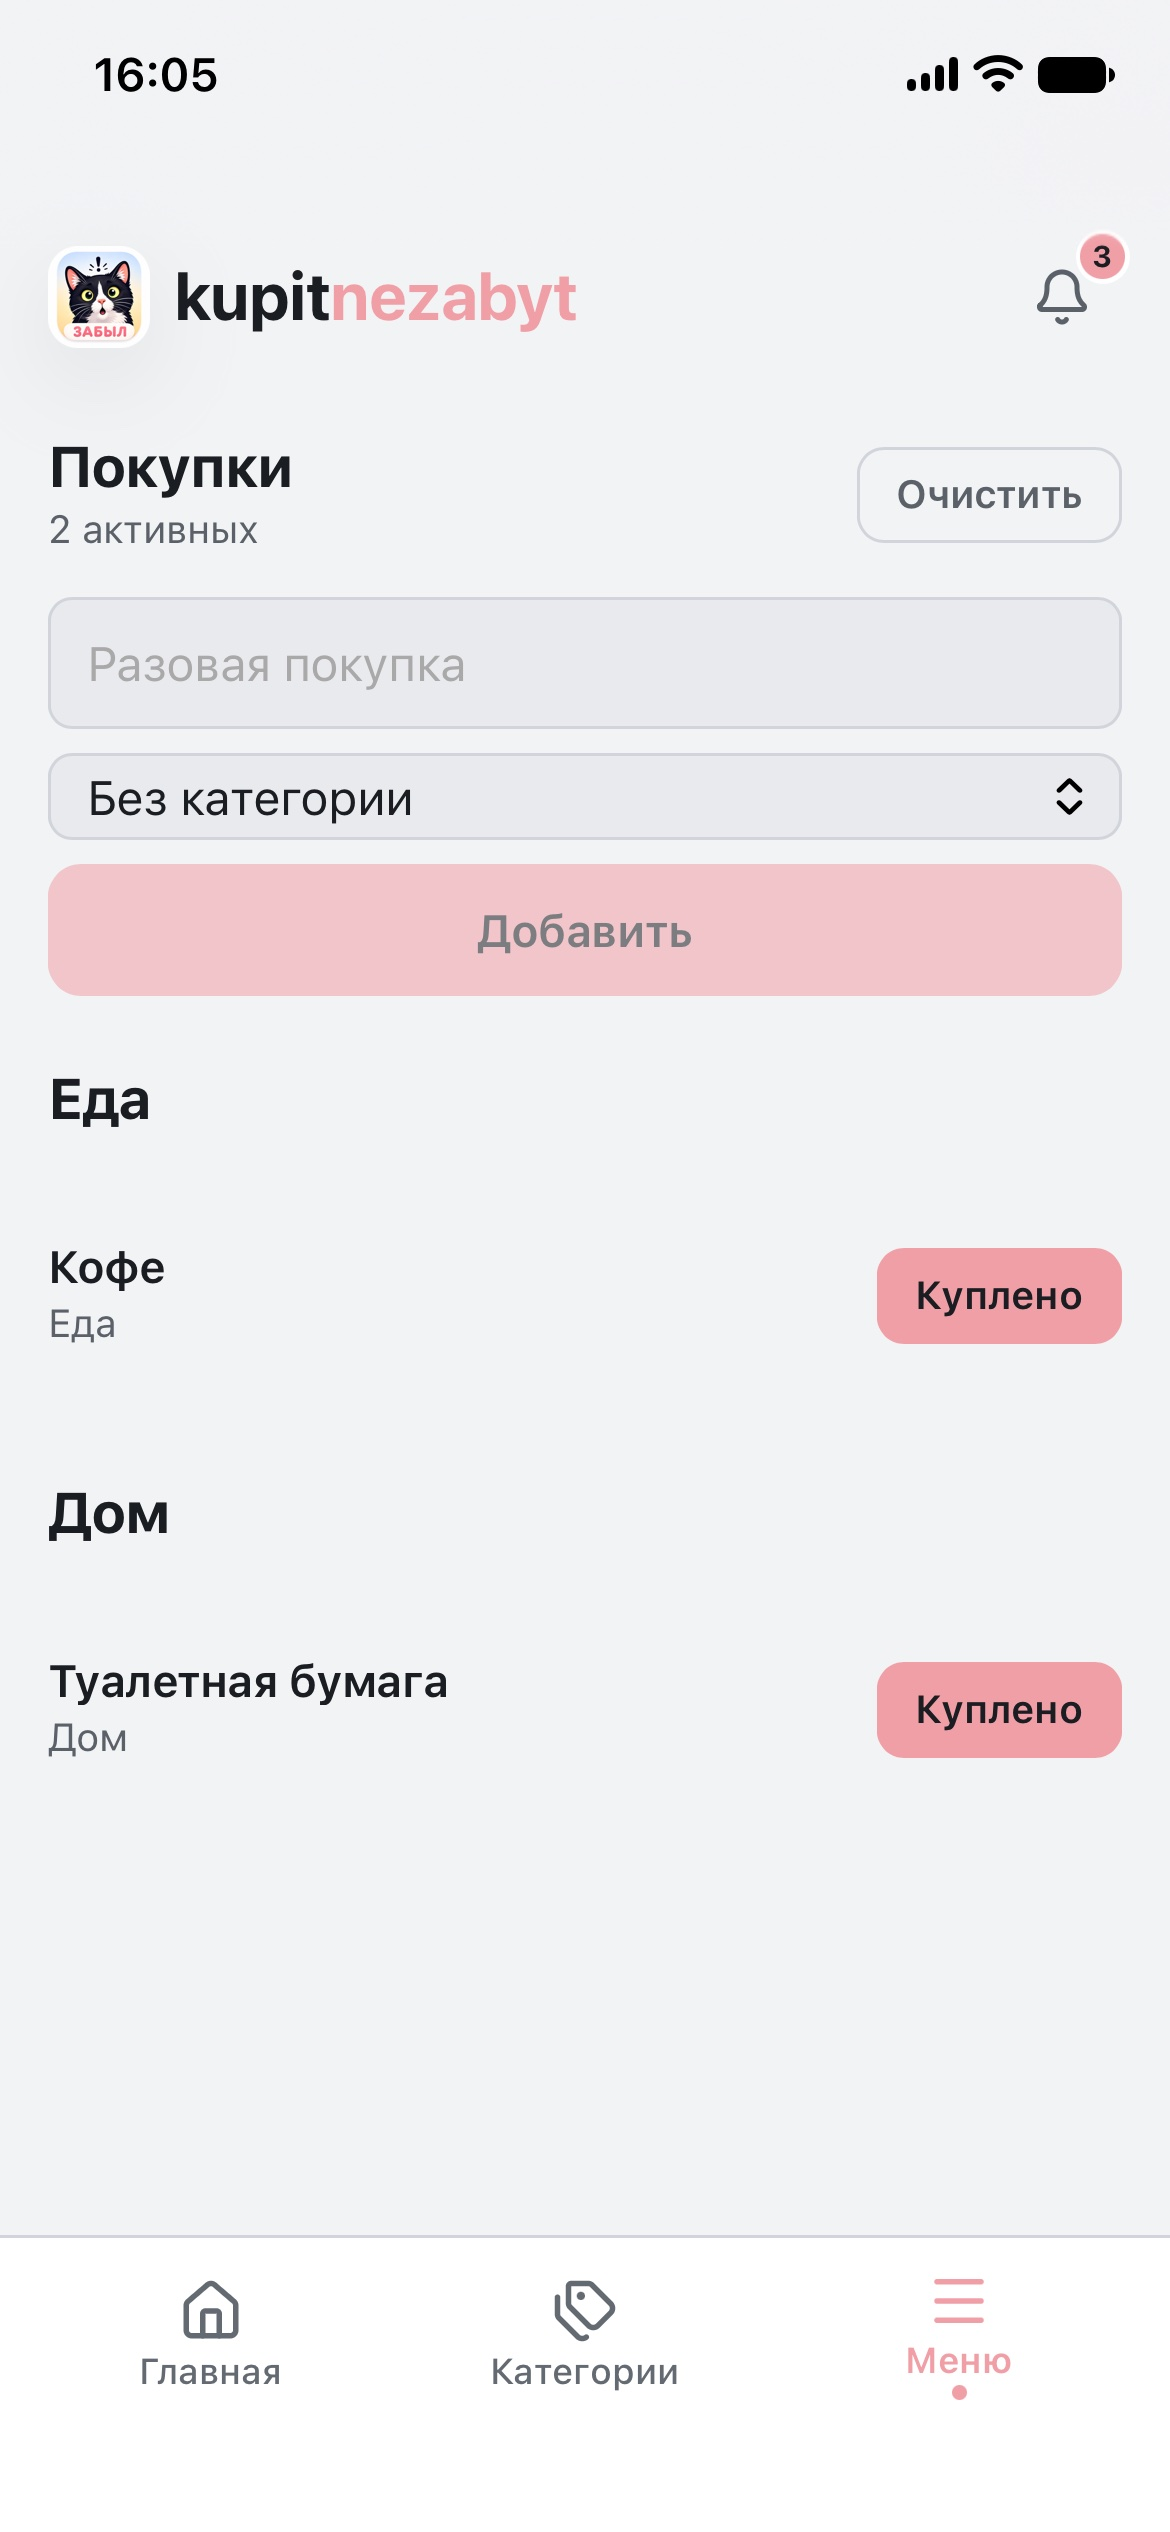
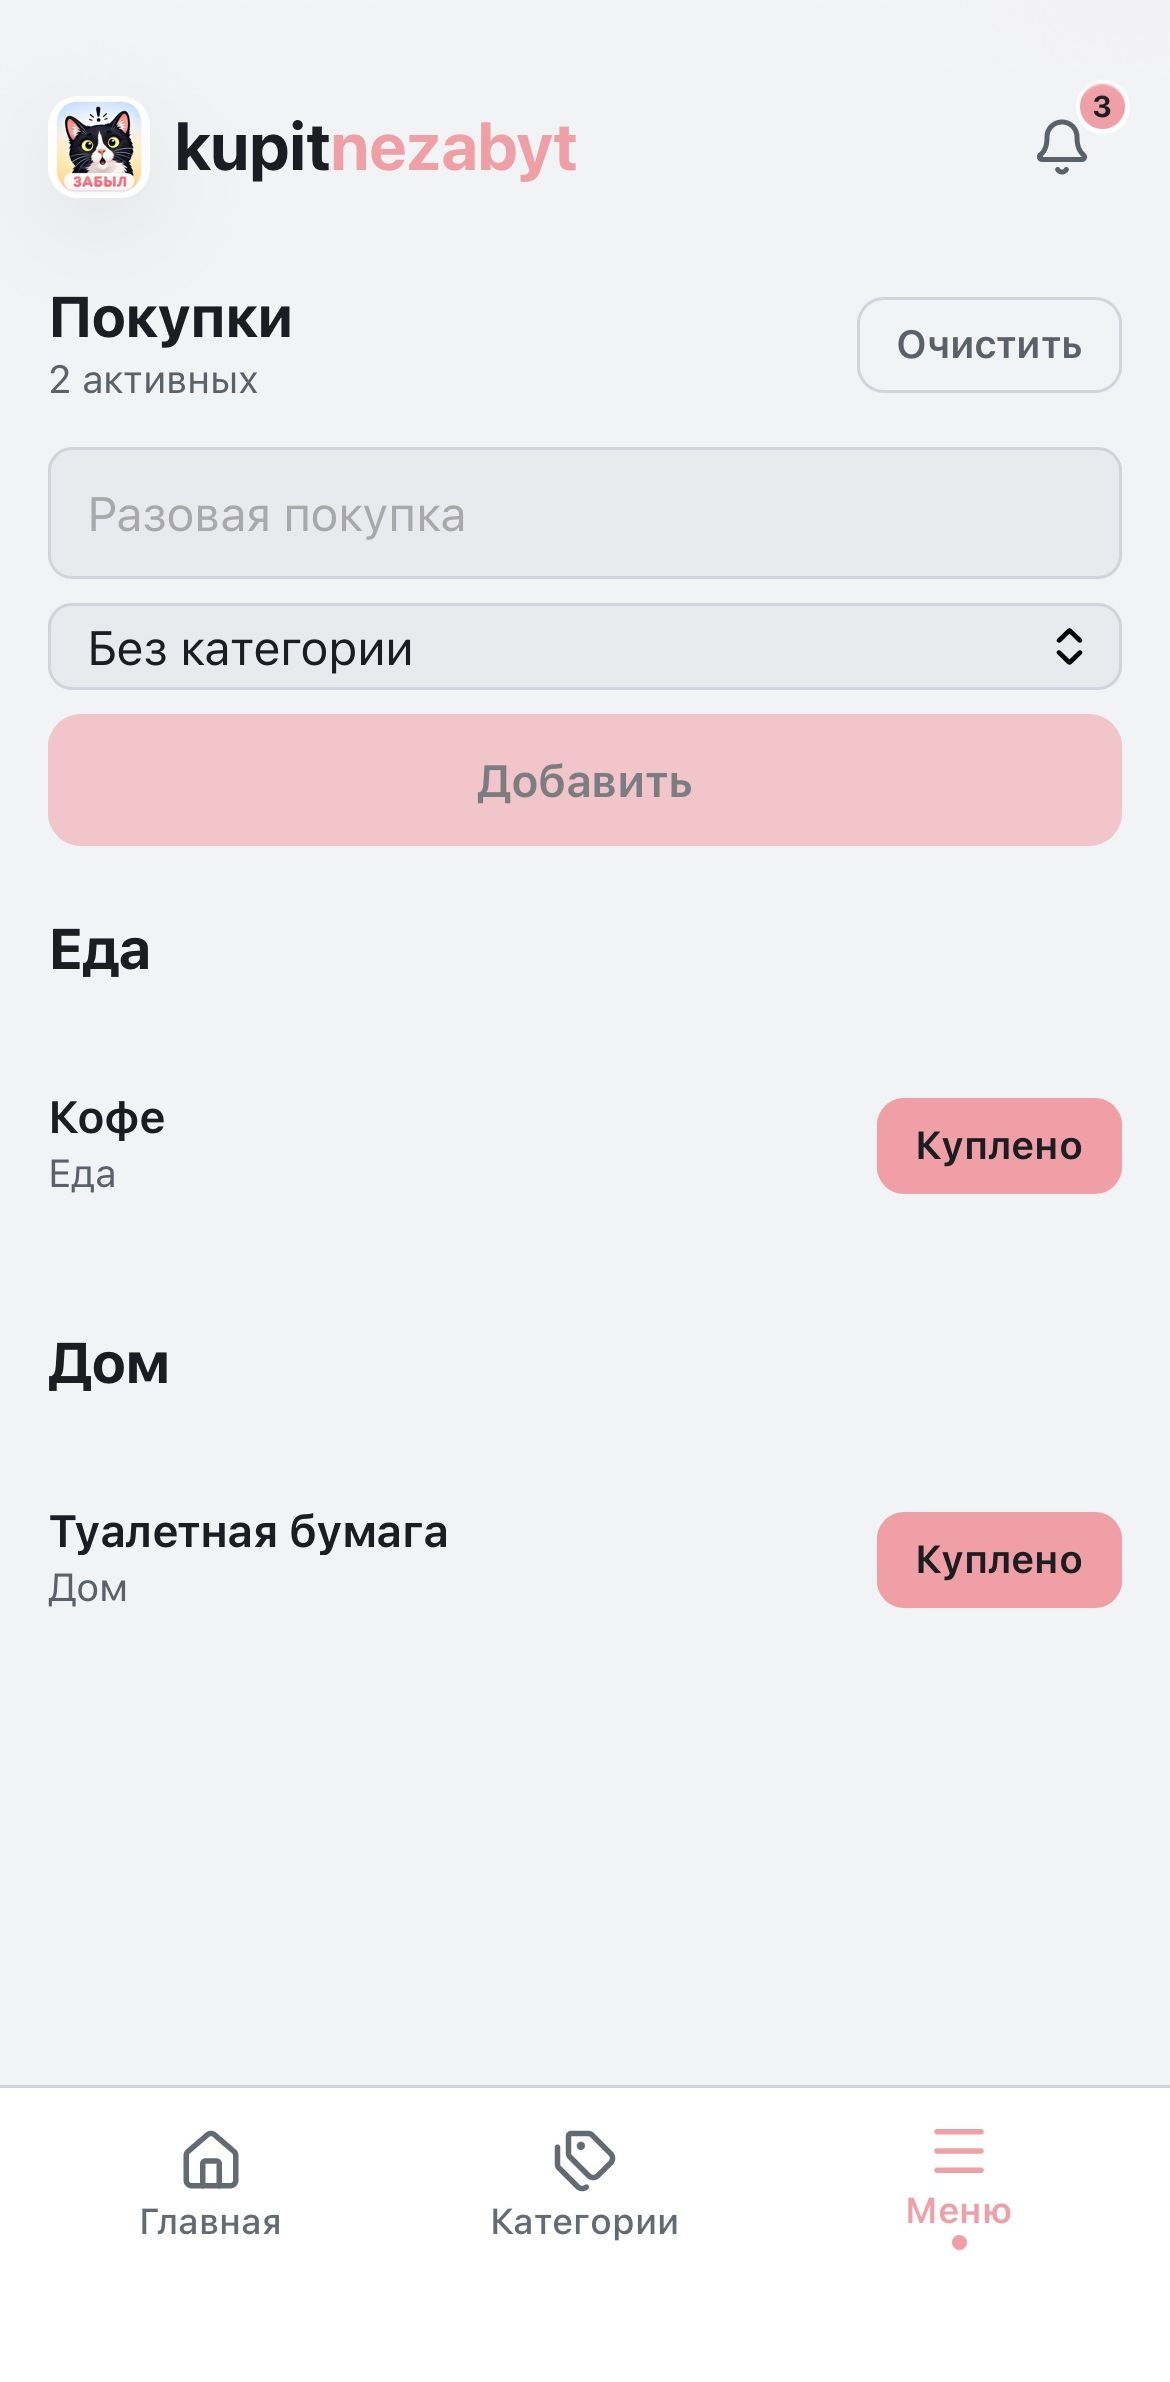
Crop purchases screenshot and align step screenshots to equal top-aligned sizes

diff --git a/src/styles/global.css b/src/styles/global.css
@@ -316,9 +316,11 @@ summary {
 
 .steps__shot img {
   display: block;
-  width: auto;
+  width: 100%;
   max-width: 100%;
   height: auto;
+  aspect-ratio: 1170 / 2382;
+  object-fit: cover;
   border: 1px solid var(--color-border);
   border-radius: var(--radius-small);
   background: var(--color-surface);
@@ -555,6 +557,14 @@ summary {
 
   .steps__list {
     grid-template-columns: repeat(3, minmax(0, 1fr));
+    grid-template-rows: repeat(3, auto);
+    row-gap: 0;
+  }
+
+  .steps__item {
+    display: grid;
+    grid-row: span 3;
+    grid-template-rows: subgrid;
   }
 
   .features__list {

diff --git a/src/content/screenshots.ts b/src/content/screenshots.ts
@@ -67,7 +67,7 @@ export const screenshots: Screenshot[] = [
     webpSrc: '/images/purchases.webp',
     alt: 'Экран «Покупки»: список покупок по категориям «Еда» и «Дом» с отметкой «Куплено»',
     width: 1170,
-    height: 2532,
+    height: 2382,
   },
   {
     id: 'kits',
